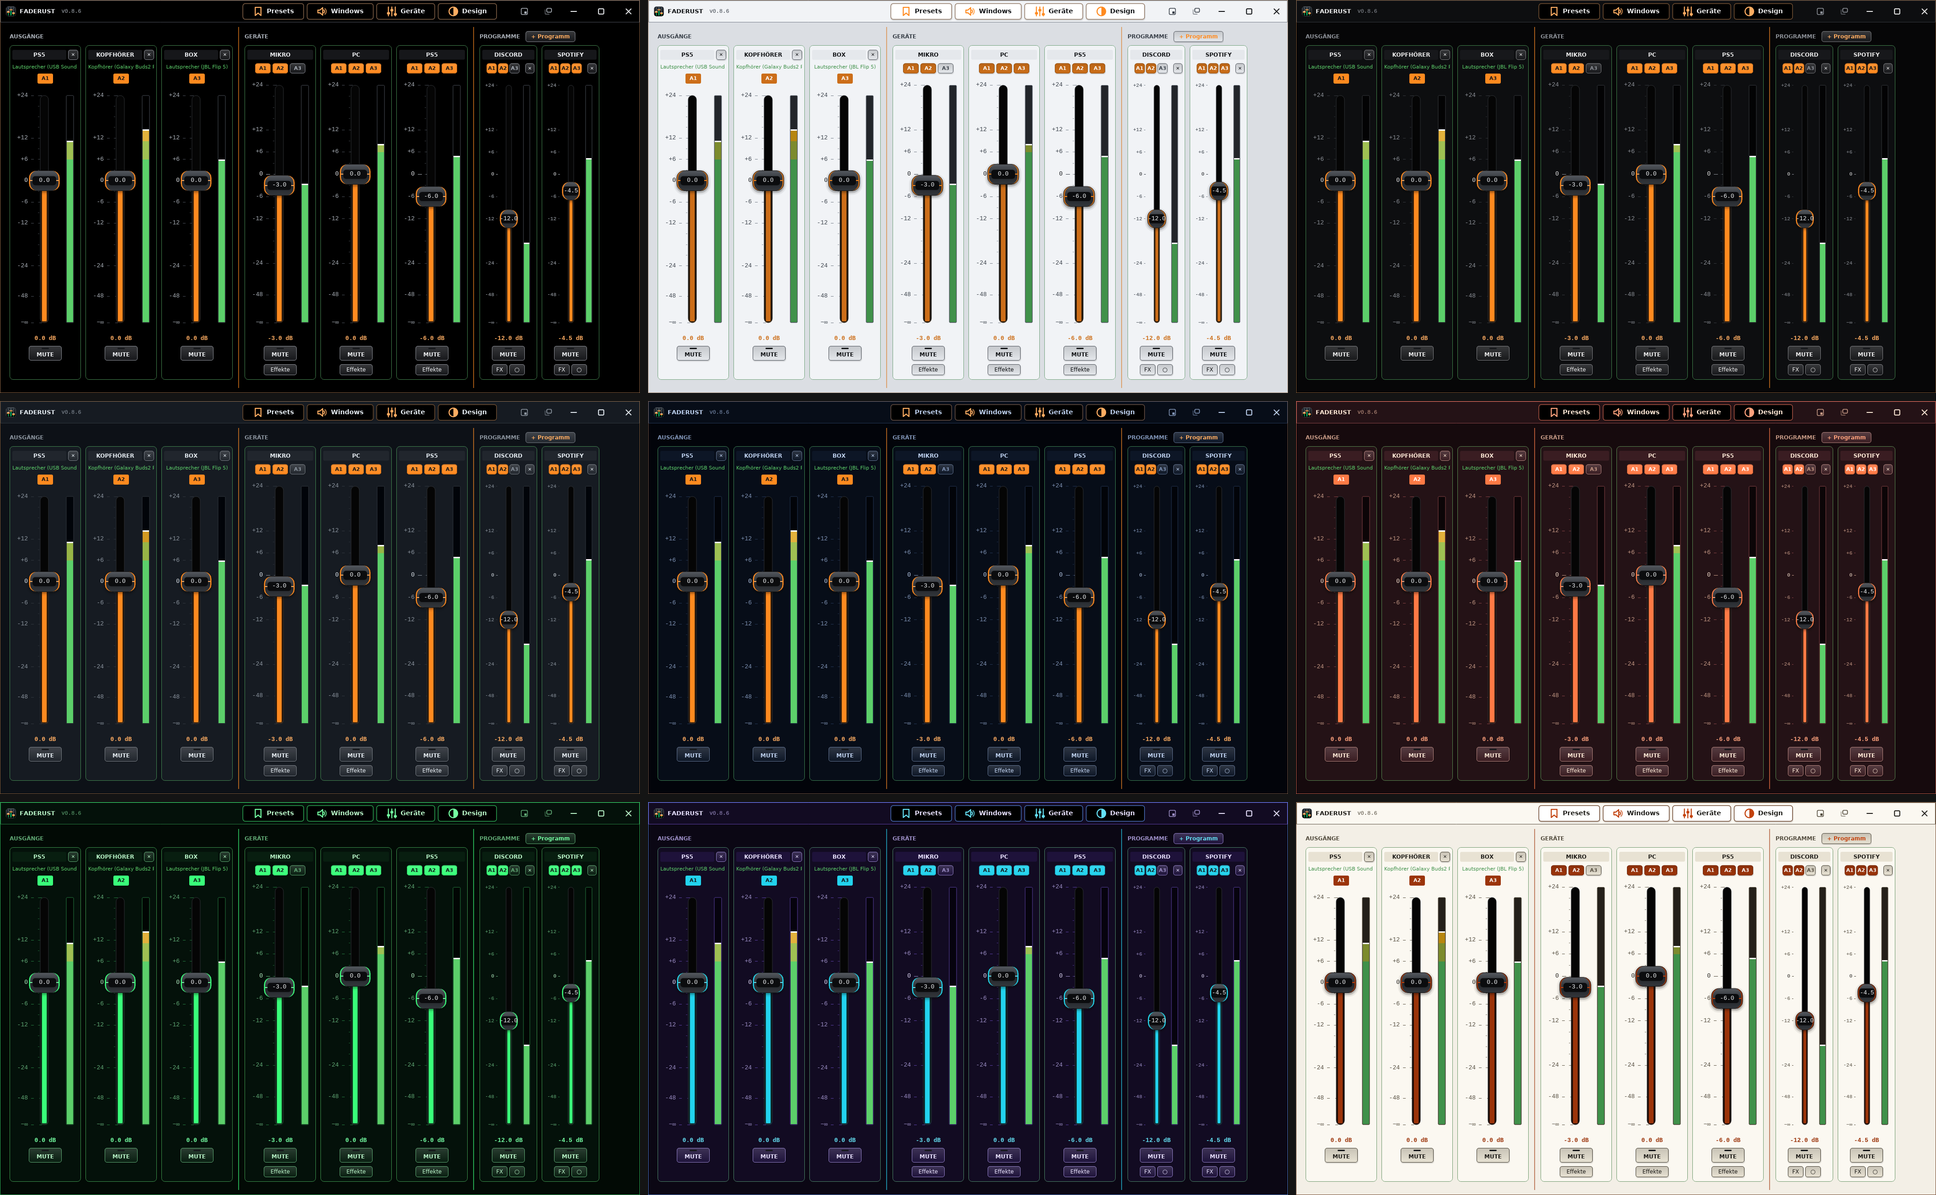
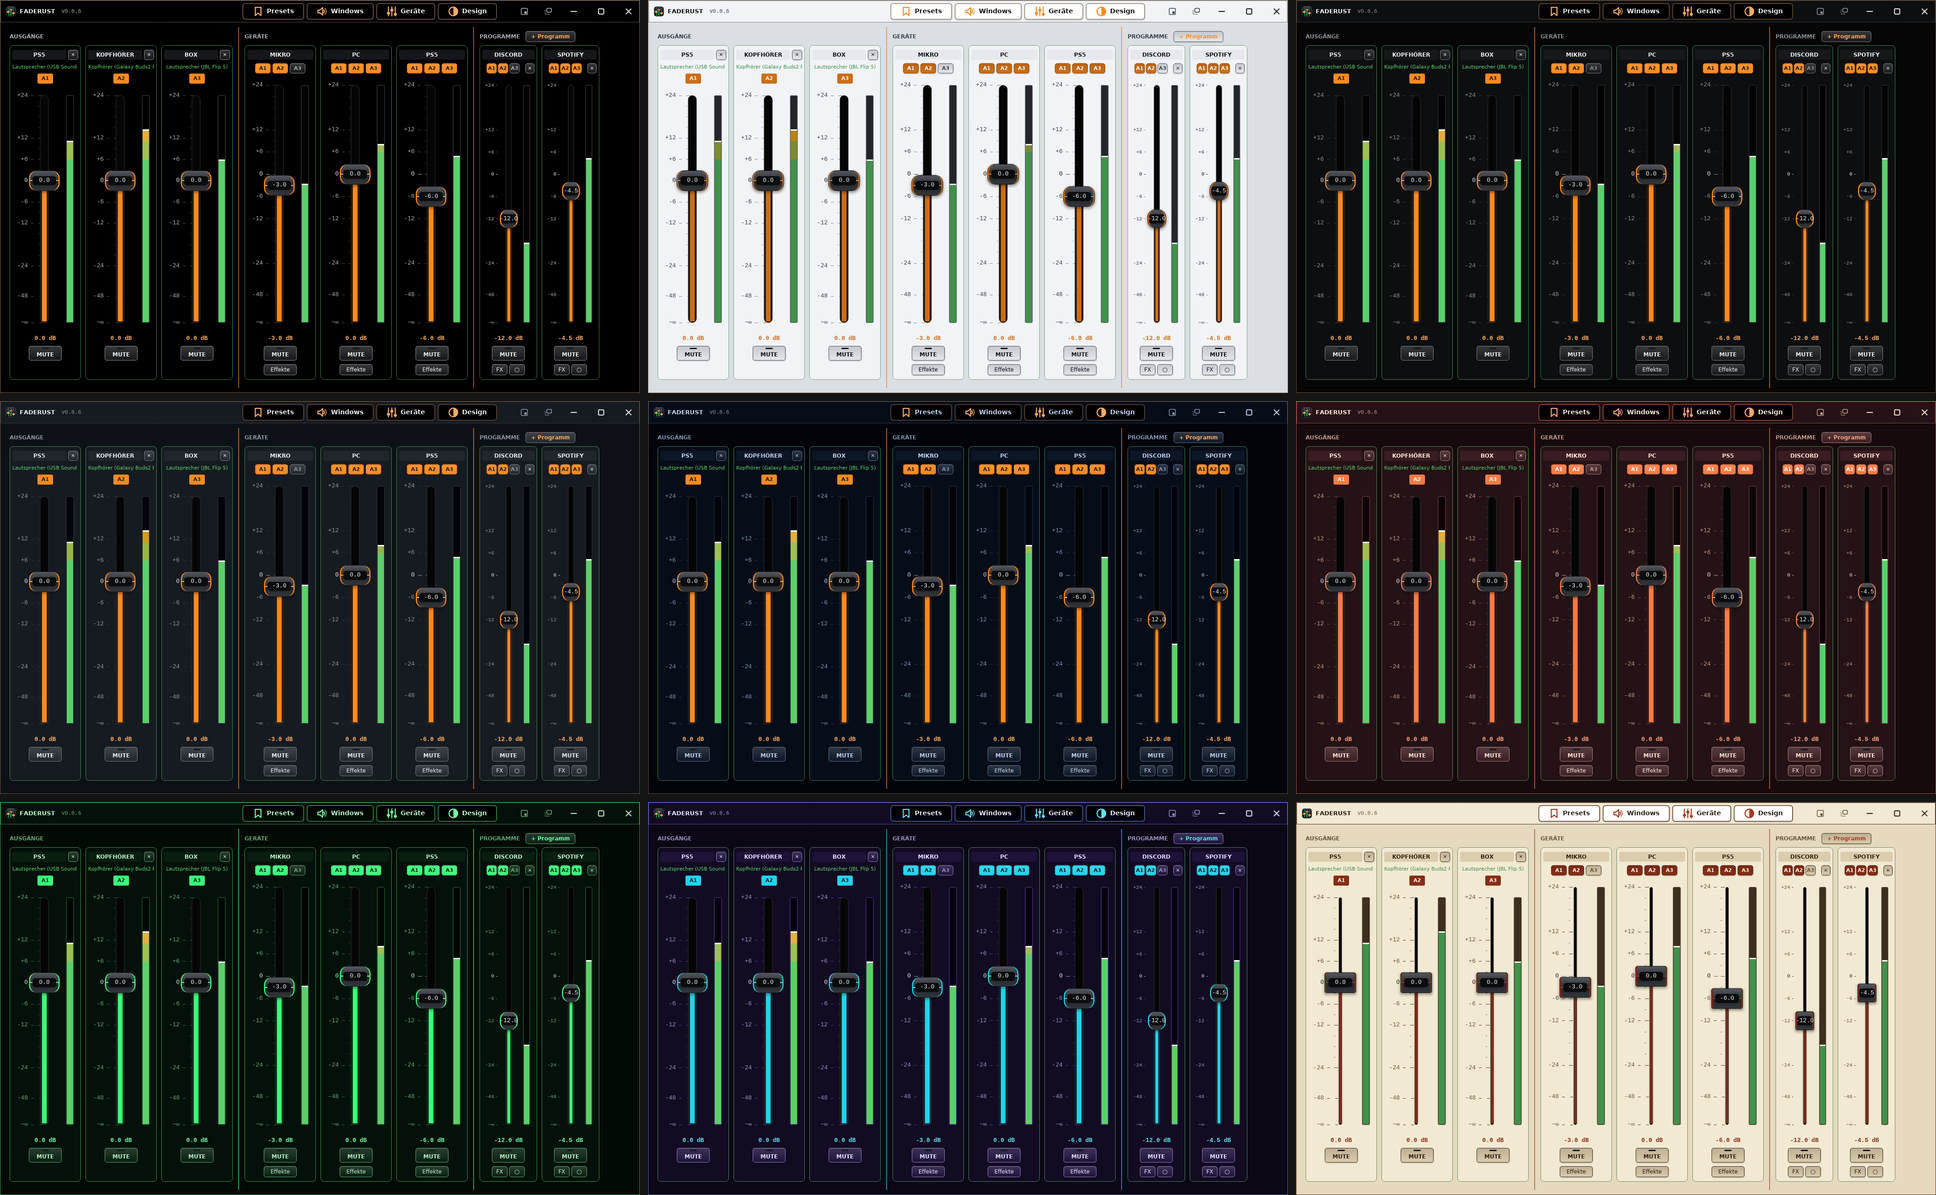
Docs: Galerie mit neuem Papier-Design

Changed region(s): [[0.6508, 0.6502, 1.0, 1.0]]

diff --git a/README.de.md b/README.de.md
@@ -74,7 +74,7 @@
 
 ![Neun Designs: Dunkel, Hell, Carbon, GitHub-Dunkel, Mitternacht, Sonnenuntergang, Terminal-Grün, Neon-Pult und Papier](assets/designs.png)
 
-Dunkel, Hell, Carbon, GitHub-Dunkel, Mitternacht, Sonnenuntergang, Terminal-Grün, Neon-Pult und Papier: ein Klick unter „Design“ und alles ändert sich. Dazu kommen Kappen-Stile (Standard, Flach, Leuchtend, Pille, Neon, Hardware, Kachel), Pegel-Formen, Dichte, eigene Akzent- und Signalfarben und Profile, die das ganze Design speichern.
+Dunkel, Hell, Carbon, GitHub-Dunkel, Mitternacht, Sonnenuntergang, Terminal-Grün, Neon-Pult und Papier (Sepia, Tinte auf Papier): ein Klick unter „Design“ und alles ändert sich. Dazu kommen Kappen-Stile (Standard, Flach, Leuchtend, Pille, Neon, Hardware, Kachel), Pegel-Formen, Dichte, eigene Akzent- und Signalfarben und Profile, die das ganze Design speichern.
 
 ## Einstellungsfenster
 

diff --git a/README.md b/README.md
@@ -74,7 +74,7 @@
 
 ![Nine looks: Dark, Light, Carbon, GitHub Dark, Midnight, Sunset, Terminal green, Neon desk and Paper](assets/designs.png)
 
-Dark, Light, Carbon, GitHub Dark, Midnight, Sunset, Terminal green, Neon desk and Paper: one click under "Design" and everything changes. On top come fader cap styles (Standard, Flat, Glowing, Pill, Neon, Hardware, Tile), meter shapes, density, your own accent and signal colors, and profiles that save the whole look.
+Dark, Light, Carbon, GitHub Dark, Midnight, Sunset, Terminal green, Neon desk and Paper (sepia, ink on paper): one click under "Design" and everything changes. On top come fader cap styles (Standard, Flat, Glowing, Pill, Neon, Hardware, Tile), meter shapes, density, your own accent and signal colors, and profiles that save the whole look.
 
 ## Settings windows
 
